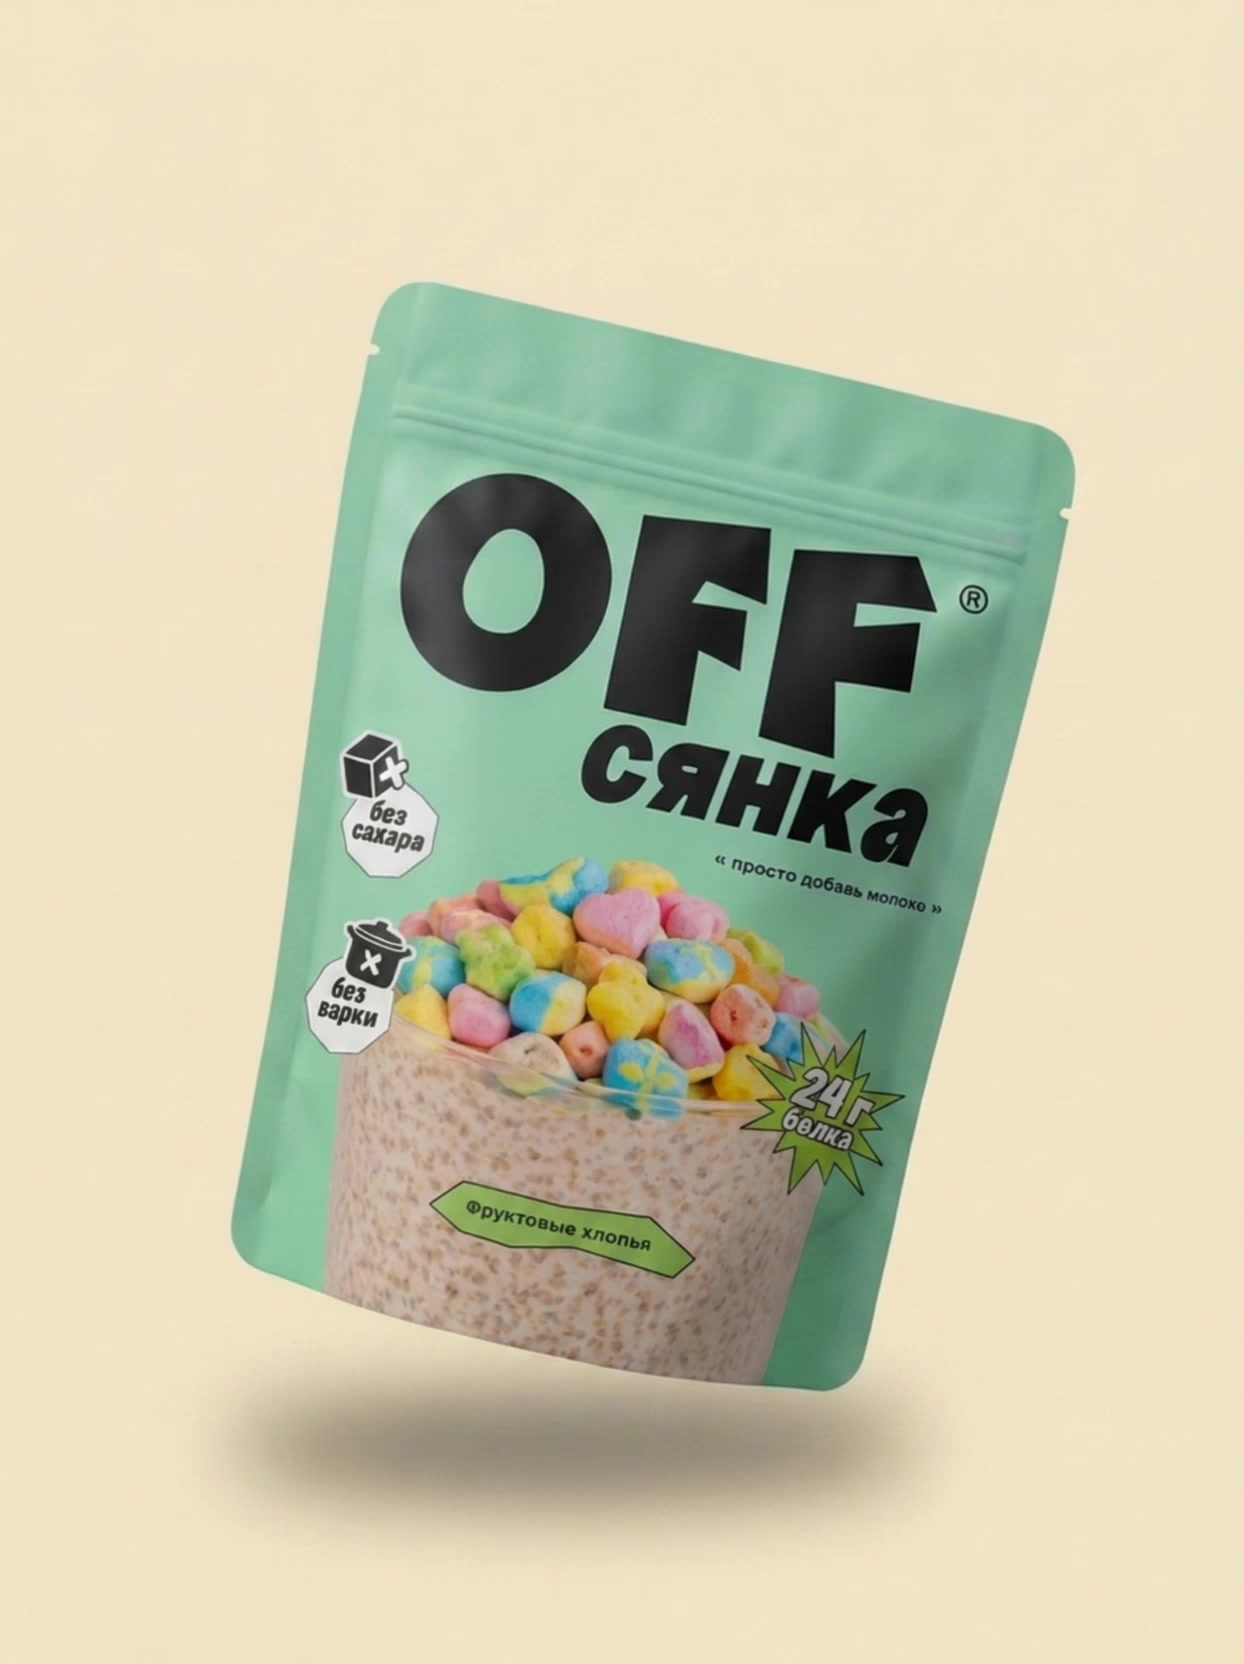
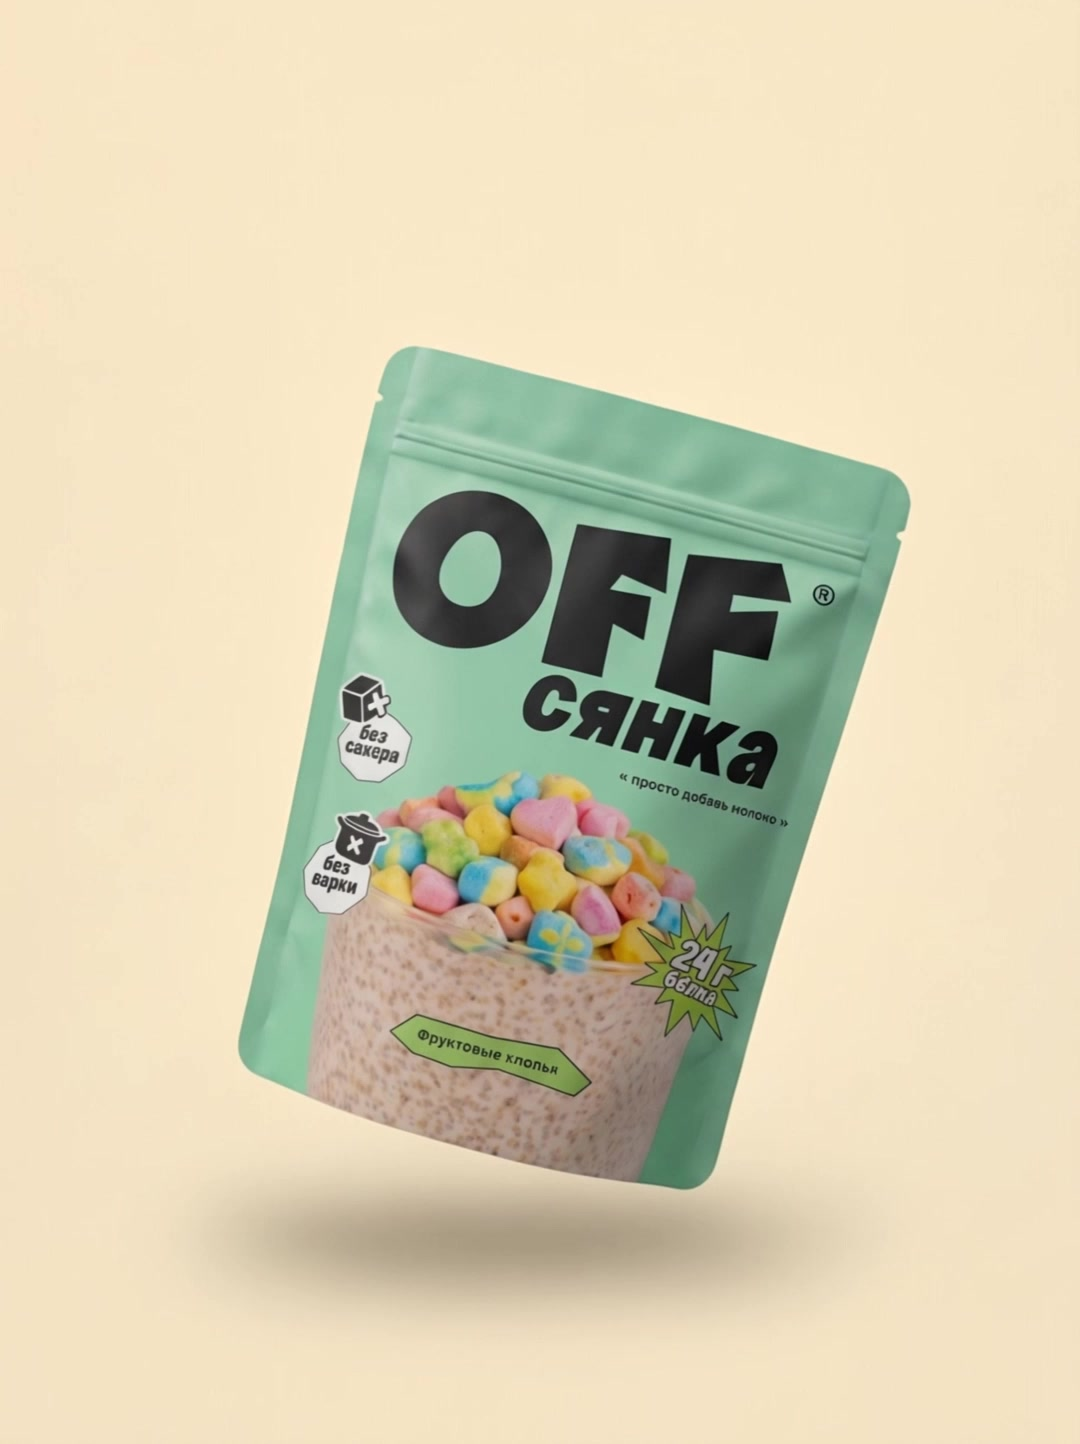
Refresh flavor posters from new compressed clips; fix Card7 casing
The videos were re-encoded to smaller files, so re-extract every resting
poster frame from the current clips to keep the hover transition seamless.
Also point the card7 tile at 'Card7.77.mp4' (capital C) to match the
uploaded filename exactly on case-sensitive hosting.

Changed region(s): [[0.1833, 0.1558, 0.8861, 0.9349]]

diff --git a/index.html b/index.html
@@ -1293,7 +1293,7 @@ a:focus-visible,button:focus-visible,input:focus-visible{
       <article class="tile has-vid">
         <div class="photo">
           <img class="rest" src="images/card7-poster.jpg" alt="OFF Сянка — Печенье со сливками" loading="lazy">
-          <video class="tile-vid" src="images/card7.77.mp4" muted playsinline preload="metadata" poster="images/card7-poster.jpg"></video>
+          <video class="tile-vid" src="images/Card7.77.mp4" muted playsinline preload="metadata" poster="images/card7-poster.jpg"></video>
           <div class="tile-actions">
             <a class="tile-btn ozon" href="#" target="_blank" rel="noopener">Заказать на OZON</a>
             <a class="tile-btn desc" href="#">Описание</a>
